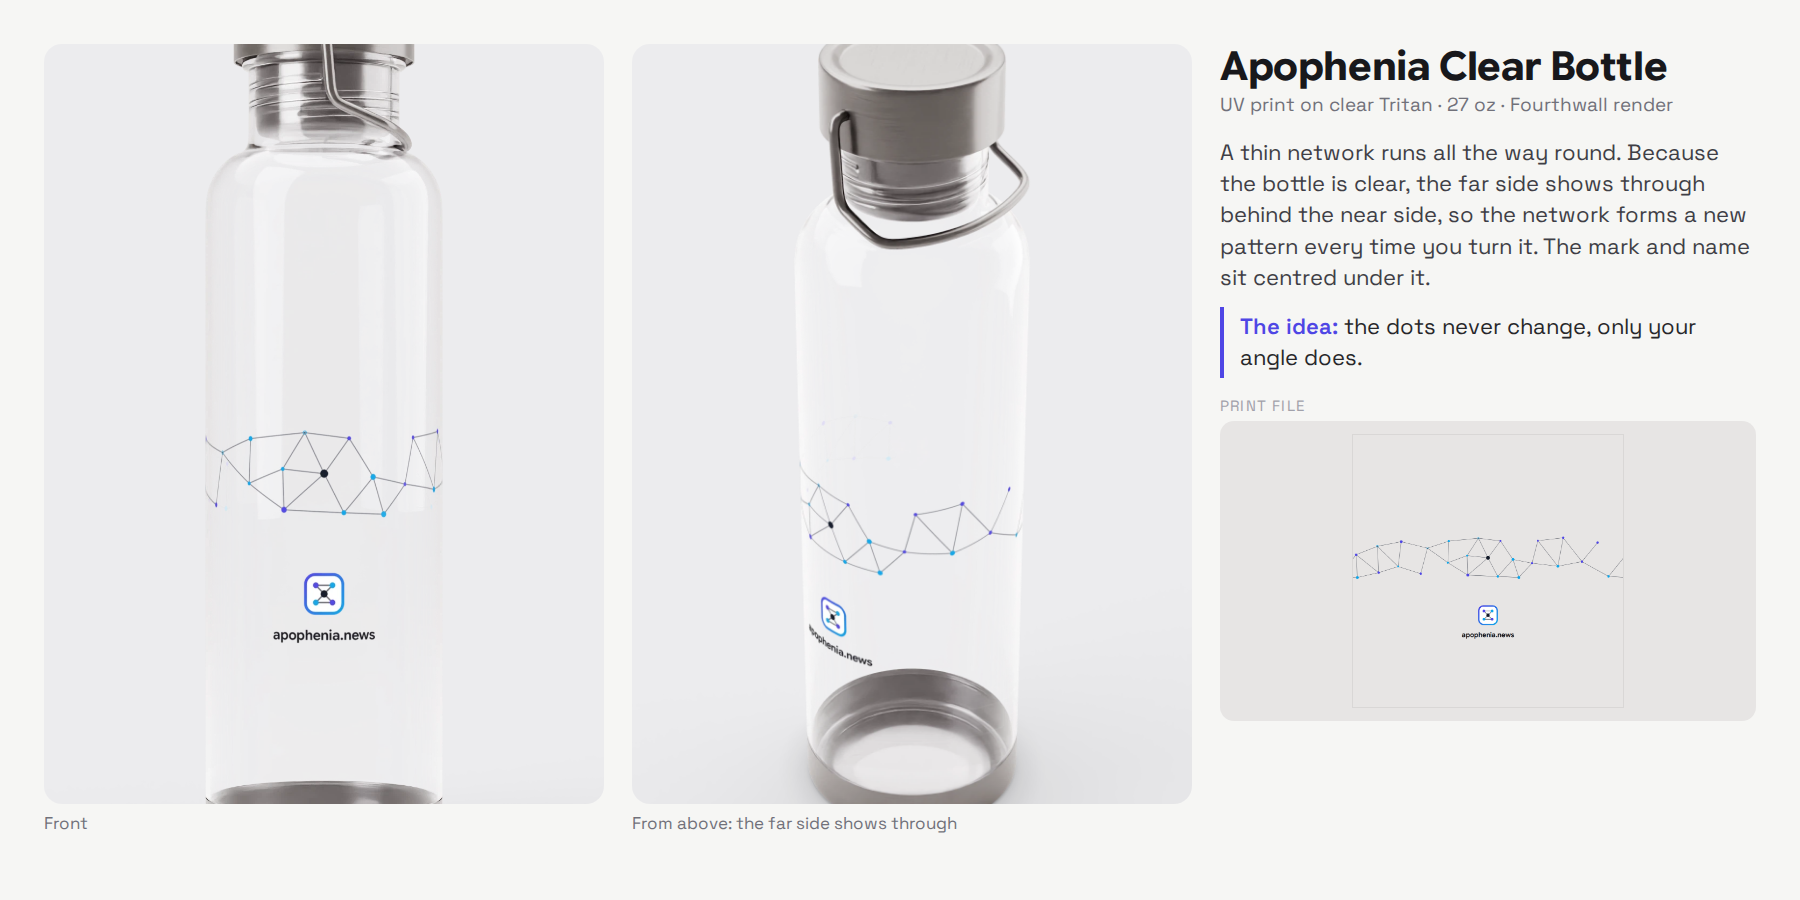
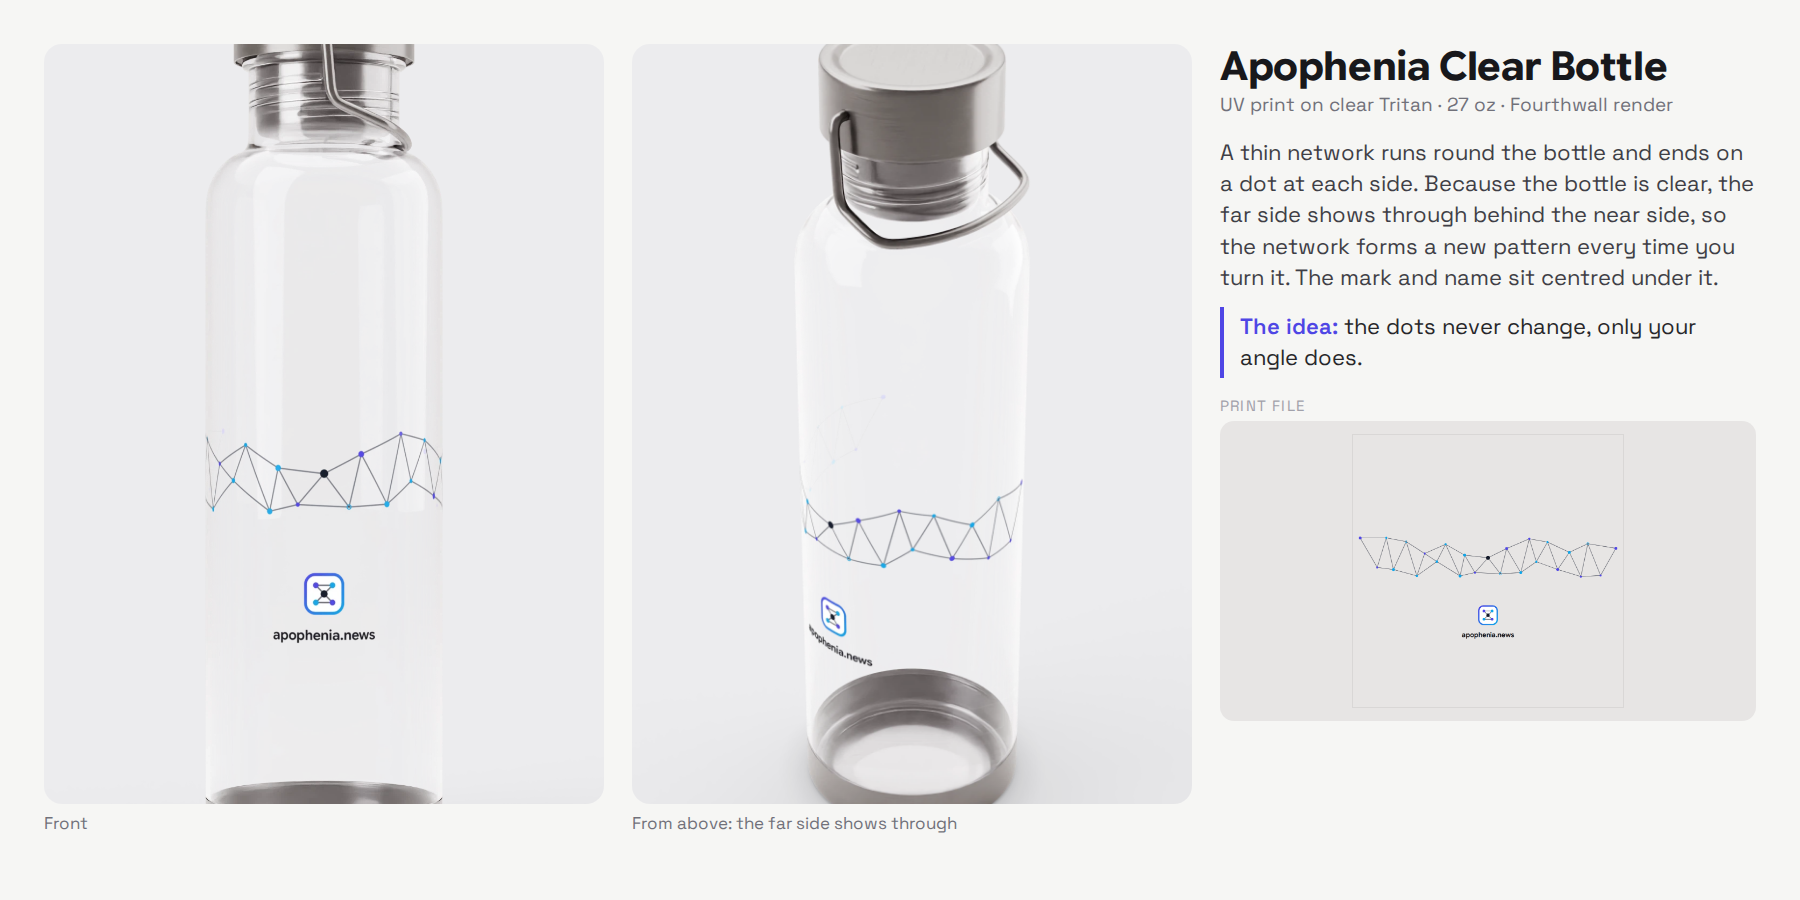
Fix: Clear bottle network ends cleanly instead of breaking off
Fourthwall prints only ~240° round the front of this bottle; the back
third is bare. The network was drawn to wrap all the way round and was
randomly scattered, so from the side and back it showed sparse patches
and lines cut off at the print edges. It's now evenly spread (one node
per slot), every node has at least two links, and it ends on a node
just inside each edge. The live listing is replaced (same address), and
the README notes the ~240° print area.

diff --git a/index.html b/index.html
@@ -67,7 +67,7 @@ footer{padding:30px 0 50px;color:#71717a;font-size:14px}
   <div class="top"><h2><a href="https://store.apophenia.news/products/apophenia-clear-bottle">Apophenia Clear Bottle</a></h2><span class="s live">In the store</span></div>
   <p class="kind">UV on clear Tritan · 27 oz</p>
   <div class="imgs"><a href="art/clear-bottle/render-1.webp"><figure><img src="art/clear-bottle/render-1.webp" alt="Apophenia Clear Bottle: Front" loading="lazy" style="background:#ececee"><figcaption>Front</figcaption></figure></a><a href="art/clear-bottle/render-2.webp"><figure><img src="art/clear-bottle/render-2.webp" alt="Apophenia Clear Bottle: From above" loading="lazy" style="background:#ececee"><figcaption>From above</figcaption></figure></a><a href="art/clear-bottle/clear-bottle-preview.png"><figure><img src="art/clear-bottle/clear-bottle-preview.png" alt="Apophenia Clear Bottle: Print file" loading="lazy" style="background:#e7e5e4"><figcaption>Print file</figcaption></figure></a></div>
-  <p>A thin network runs all the way round. The bottle is clear, so the far side shows through behind the near side and the network forms a new pattern every time you turn it. The mark and name sit centred under it.</p>
+  <p>A thin network runs round the bottle and ends on a dot at each side. The bottle is clear, so the far side shows through behind the near side and the network forms a new pattern every time you turn it. The mark and name sit centred under it.</p>
   <ul class="files"><li><a href="art/clear-bottle/clear-bottle.png">Wrap · 2837×2858 · 9.46 × 9.53 in</a></li><li><a href="art/clear-bottle/board.png">Approval board</a></li></ul>
 </section>
 

diff --git a/README.md b/README.md
@@ -42,7 +42,7 @@ Headless Chromium does the rendering: it uses Playwright's `chromium_headless_sh
 |---|---|---|---|---|
 | Apophenia Mug | White Glossy Mug | `pro_4v5OfYhyRx62KW5b7Oj6Uw` | 2700×1050 | Handle-left view shows about 0–35%, handle-right about 65–100%. Put one face at ~22% and the other at ~78%. |
 | Apophenia 16 oz Glass | Shaker glass, 16 oz | `pro_KLKGnobKR0u-aO6RghFzxA` | 2874×1512 | Full wrap, front at 50%, seam at 0/100% (the back). Anything on the back shows through the front, mirrored. |
-| Apophenia Clear Bottle | Thor Clear Tritan Sports Bottle | `pro_Ev93jJN7Sg2shZI9WjJKqg` | 2837×2858 | Full wrap of the body, front at 50%. The far side shows through. |
+| Apophenia Clear Bottle | Thor Clear Tritan Sports Bottle | `pro_Ev93jJN7Sg2shZI9WjJKqg` | 2837×2858 | Only ~240° round the front, front at 50%: the back third is bare, so anything that should look continuous must end inside the edges. The far side shows through. |
 | Apophenia Steel Bottle | H2Go Bolt (black) | `pro_lcY8lsUxT0abgQ35lT919g` | 2726×3262 | A ~5 in label on the lower body covering only the front half (~186°), front at 50%. Keep the core within ~30–70% and draw big. |
 | Apophenia Backpack | All-Over Print Minimalist Backpack | `pro_f5fdfe4ae25248499e` | panels | The API refuses it (no backend rendering): use the admin designer. Front = `backpack-front.png`, top and bottom = `backpack-fill.png`. |
 | Apophenia Duffle Bag | All-Over Print Duffle Bag | `pro_4cb50ea9e50d4f83be` | panels | The API refuses it (no backend rendering): use the admin designer. Front and back = `duffle-front.png`, ends = `duffle-end.png`, everything else = `duffle-fill.png`. The API lists the "Sides" area as unavailable, so check where the ends go. |
